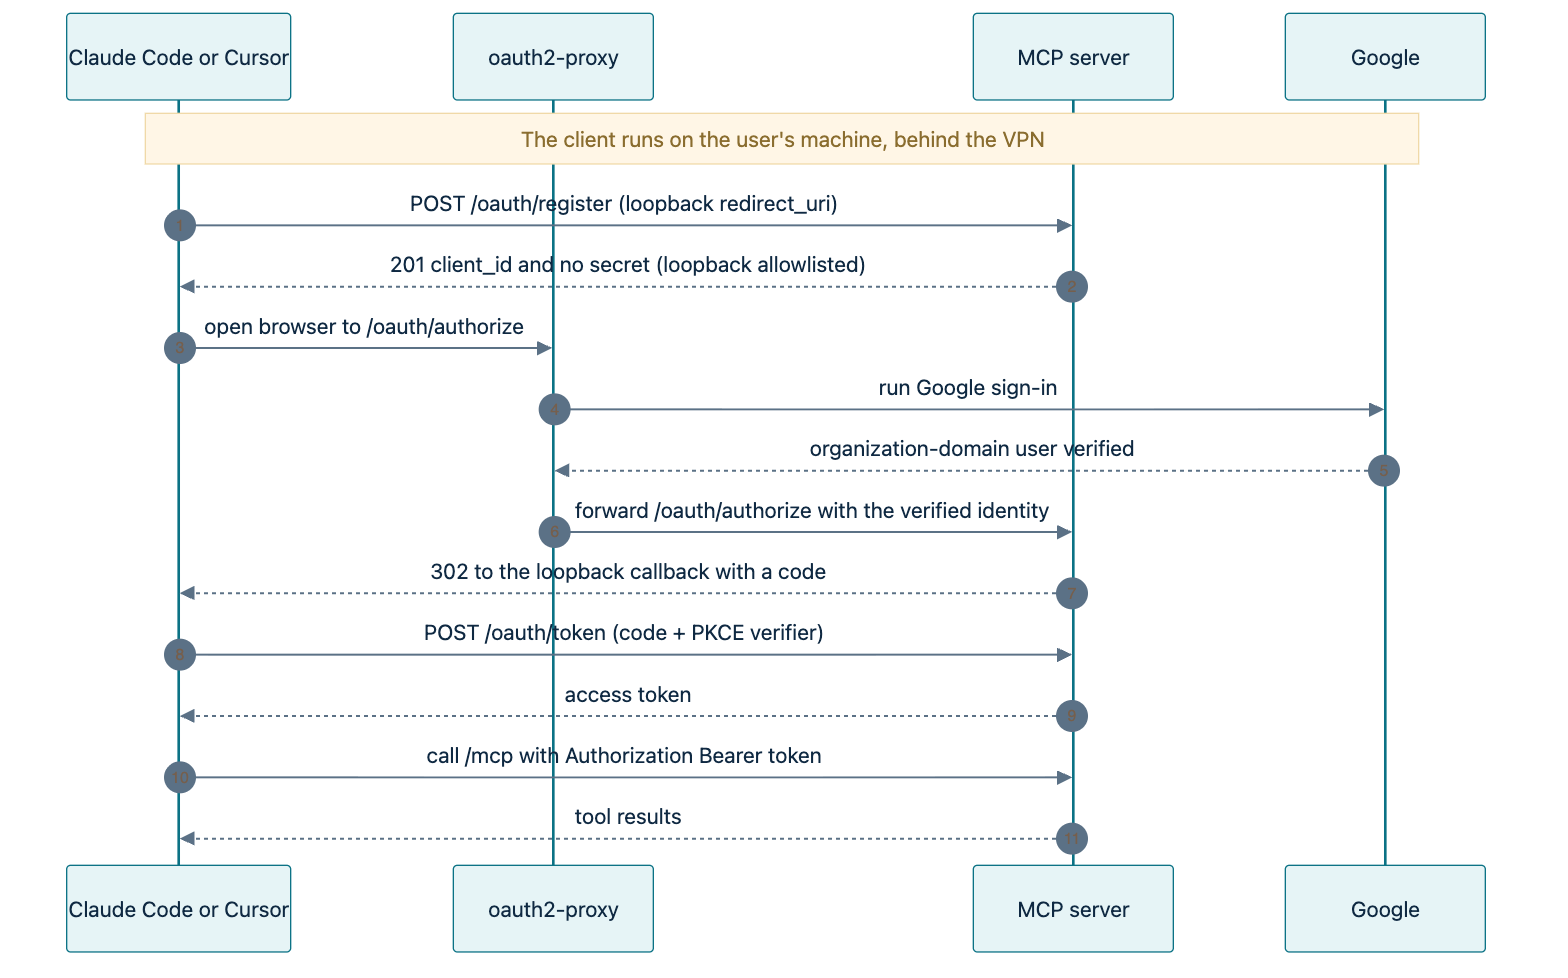
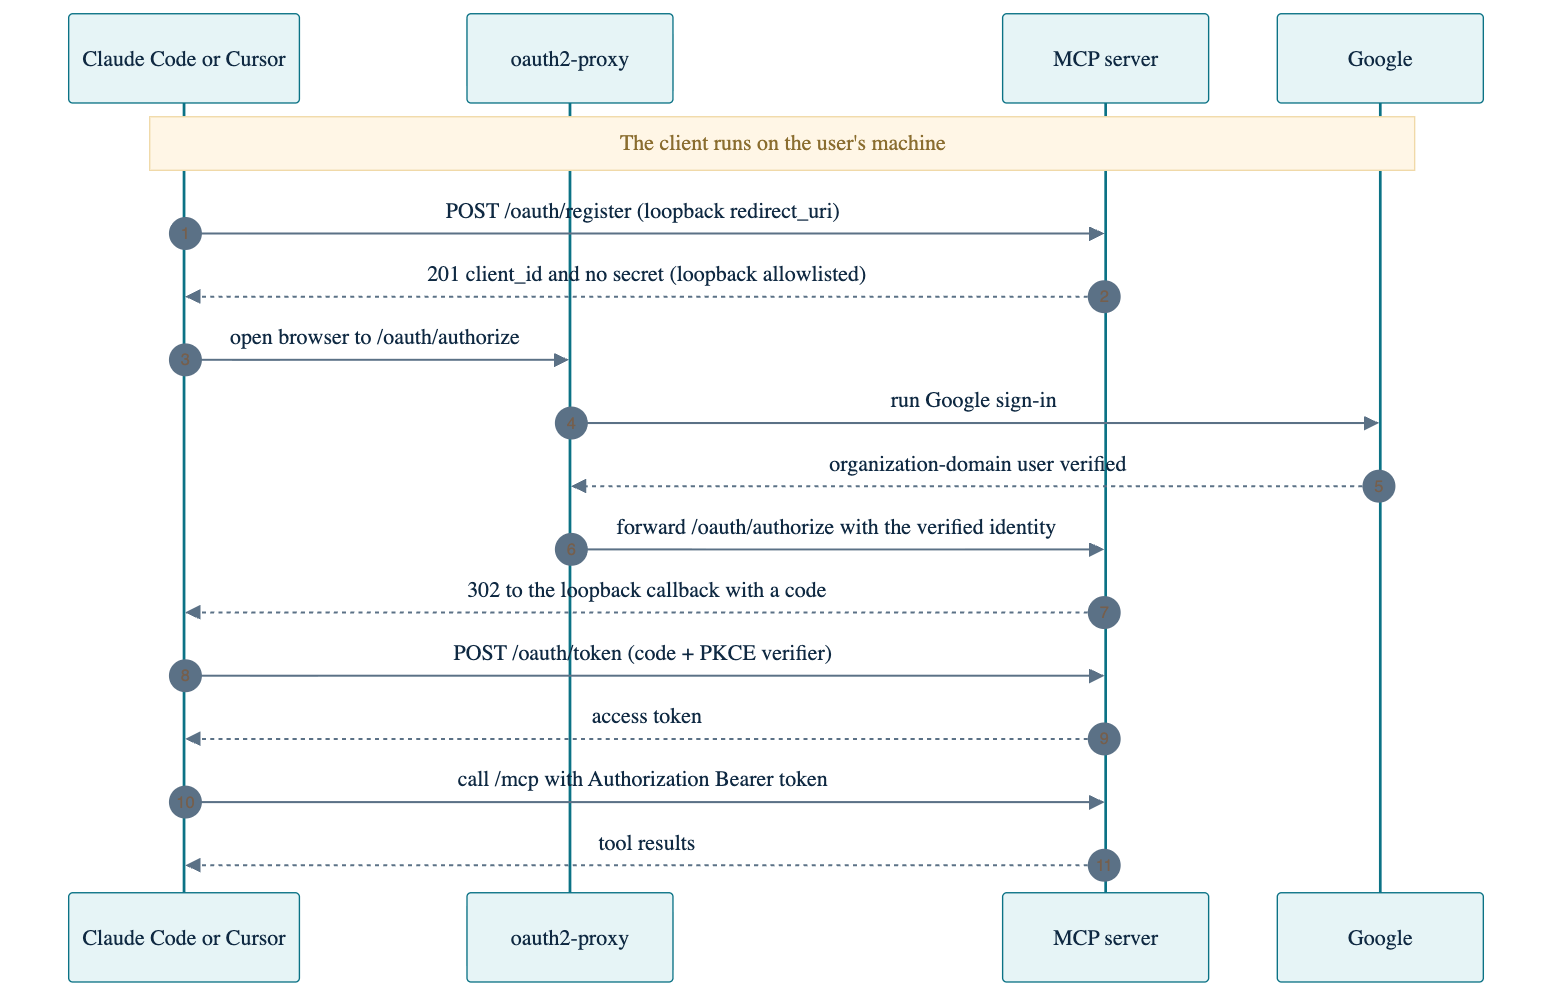
Drop the VPN/internal-host axis — one public host serves every client
The two-host split (internal for local clients, public for cloud) was an
artifact of one deployment, not an architectural need: the OAuth callback
is public for cloud clients regardless, and one host serves all. The real
axis is where the callback lands: loopback (local) vs. vendor URL (cloud).

diff --git a/index.html b/index.html
@@ -77,9 +77,9 @@
       against Google (restricted to your organization's domain), and the client
       holds a short-lived <strong>bearer token</strong> it presents on each
       <code>/mcp</code> call. Two things differ between assistants:
-      <strong>where the client runs</strong> (a machine on the VPN —
-      <em>private</em> — vs. the vendor's cloud — <em>public</em>), which decides
-      the host it reaches; and <strong>what kind of OAuth client it is</strong> —
+      <strong>where the client runs</strong> (the user's machine — <em>local</em> —
+      vs. the vendor's cloud), which decides where the OAuth callback
+      lands; and <strong>what kind of OAuth client it is</strong> —
       a public client proving itself with PKCE (Proof Key for Code Exchange, which
       lets a client with no secret prove the token request comes from the same
       client that started the flow), or a confidential client proving itself with
@@ -98,9 +98,9 @@
     <h2>The two axes</h2>
     <div class="axes">
       <div class="axis">
-        <h4>Private vs. public — where the client runs</h4>
-        <p><strong>Private/local</strong> clients (Claude Code, Cursor) run on a VPN-connected machine and reach the internal host <code>mcp.internal.example</code> with a loopback callback.</p>
-        <p><strong>Public/cloud</strong> clients (Claude Desktop, Gemini Enterprise) run in the vendor's cloud and reach the public host <code>mcp.example.com</code> — which is why the server has to be reachable from the internet.</p>
+        <h4>Local vs. cloud — where the client runs</h4>
+        <p><strong>Local</strong> clients (Claude Code, Cursor) run on the user's machine and receive the OAuth callback on <strong>loopback</strong> (<code>127.0.0.1</code>) — the authorization code never leaves the machine.</p>
+        <p><strong>Cloud</strong> clients (Claude Desktop, Gemini Enterprise) run in the vendor's cloud, so the callback is a registered vendor URL — which is why the server has to be reachable from the internet.</p>
       </div>
       <div class="axis">
         <h4>Public vs. confidential — the OAuth client type</h4>
@@ -112,22 +112,22 @@
     <h2>The configurations at a glance</h2>
     <table class="matrix">
       <thead>
-        <tr><th>Assistant</th><th>Client runs</th><th>Host it reaches</th><th>OAuth client</th><th>Proves itself with</th><th>Notes / requirements</th></tr>
+        <tr><th>Assistant</th><th>Client runs</th><th>OAuth callback</th><th>OAuth client</th><th>Proves itself with</th><th>Notes / requirements</th></tr>
       </thead>
       <tbody>
-        <tr><td class="c">Claude Code (CLI)</td><td>local machine · VPN</td><td>internal host</td><td>dynamic, public</td><td>PKCE</td><td>works once registered</td></tr>
-        <tr><td class="c">Cursor (IDE)</td><td>local machine · VPN</td><td>internal host</td><td>dynamic, public</td><td>PKCE</td><td>works via the <code>mcp-remote</code> shim *</td></tr>
-        <tr><td class="c">Claude Desktop</td><td>Anthropic cloud</td><td>public host</td><td>dynamic, public</td><td>PKCE</td><td>works once registered</td></tr>
-        <tr><td class="c">Gemini Enterprise</td><td>Google cloud</td><td>public host</td><td>pre-provisioned, confidential</td><td>client secret</td><td>requires a Gemini Enterprise license + admin connector registration</td></tr>
-        <tr><td class="c">Cursor Cloud Agents</td><td>Cursor cloud</td><td>public host</td><td>dynamic / static</td><td>PKCE / secret</td><td>requires a Cursor team admin to add the server</td></tr>
+        <tr><td class="c">Claude Code (CLI)</td><td>local machine</td><td>loopback</td><td>dynamic, public</td><td>PKCE</td><td>works once registered</td></tr>
+        <tr><td class="c">Cursor (IDE)</td><td>local machine</td><td>loopback</td><td>dynamic, public</td><td>PKCE</td><td>works via the <code>mcp-remote</code> shim *</td></tr>
+        <tr><td class="c">Claude Desktop</td><td>Anthropic cloud</td><td>vendor URL (<code>claude.ai</code>)</td><td>dynamic, public</td><td>PKCE</td><td>works once registered</td></tr>
+        <tr><td class="c">Gemini Enterprise</td><td>Google cloud</td><td>vendor URL (Google)</td><td>pre-provisioned, confidential</td><td>client secret</td><td>requires a Gemini Enterprise license + admin connector registration</td></tr>
+        <tr><td class="c">Cursor Cloud Agents</td><td>Cursor cloud</td><td>vendor URL</td><td>dynamic / static</td><td>PKCE / secret</td><td>requires a Cursor team admin to add the server</td></tr>
       </tbody>
     </table>
     <p style="font-size:13px; color:var(--muted)">* Cursor's local IDE connects through the <code>mcp-remote</code> shim — see its section.</p>
 
-    <h2>Claude Code &amp; Cursor — private (VPN)</h2>
+    <h2>Claude Code &amp; Cursor — local</h2>
     <p>
       This is the local baseline: the client runs on the user's machine, so it completes the full OAuth
-      flow from inside the VPN with a <strong>loopback callback</strong>
+      flow with a <strong>loopback callback</strong>
       (<code>127.0.0.1</code>). It self-registers (dynamic registration), the loopback
       redirect is allowlisted, and the authorization code never leaves the machine.
       It is a <strong>public client</strong>: no secret — PKCE ties the token request
@@ -141,7 +141,7 @@ sequenceDiagram
     participant PX as oauth2-proxy
     participant MM as MCP server
     participant G as Google
-    Note over CLI,G: The client runs on the user's machine, behind the VPN
+    Note over CLI,G: The client runs on the user's machine
     CLI->>MM: POST /oauth/register (loopback redirect_uri)
     MM-->>CLI: 201 client_id and no secret (loopback allowlisted)
     CLI->>PX: open browser to /oauth/authorize
@@ -154,7 +154,7 @@ sequenceDiagram
     CLI->>MM: call /mcp with Authorization Bearer token
     MM-->>CLI: tool results
       </pre></div>
-      <figcaption>Local PKCE flow — everything but the Google sign-in stays on the user's machine and the VPN.</figcaption>
+      <figcaption>Local PKCE flow — everything but the Google sign-in stays on the user's machine.</figcaption>
     </figure>
 
     <h3>The Cursor exception</h3>
@@ -162,15 +162,15 @@ sequenceDiagram
       Cursor follows the same local flow, but a <a href="https://forum.cursor.com/t/oauth-browser-redirect-not-triggered-for-http-based-mcp-servers/146988" target="_blank" rel="noopener">known Cursor bug</a> stops the IDE from
       opening the browser after it registers — so the sign-in step never starts. The
       workaround is the <code>mcp-remote</code> shim
-      (<code>npx -y mcp-remote@latest https://mcp.internal.example/mcp</code>), which
+      (<code>npx -y mcp-remote@latest https://mcp.example.com/mcp</code>), which
       runs the OAuth flow itself and hands Cursor a working connection. Nothing on
       the server changes.
     </p>
 
-    <h2>Claude Desktop — public (cloud)</h2>
+    <h2>Claude Desktop — cloud</h2>
     <p>
-      Claude Desktop's connector runs in <strong>Anthropic's cloud</strong>, so it
-      reaches the <strong>public</strong> host. It is still a <strong>public client</strong>:
+      Claude Desktop's connector runs in <strong>Anthropic's cloud</strong>. It is
+      still a <strong>public client</strong>:
       it discovers the server's endpoints and registers itself dynamically (PKCE, no
       secret), exactly like the local clients — the only difference is that the
       callback is a cloud URL (<code>claude.ai</code>) instead of loopback, so the
@@ -200,16 +200,16 @@ sequenceDiagram
     CD->>MM: call /mcp with Authorization Bearer token
     MM-->>CD: tool results
       </pre></div>
-      <figcaption>Cloud PKCE flow — like the local one, but the callback and token-bearing calls originate from Anthropic's cloud, so the server must be public.</figcaption>
+      <figcaption>Cloud PKCE flow — like the local one, but the callback and token-bearing calls originate from Anthropic's cloud, so the server must be reachable from the internet.</figcaption>
     </figure>
 
-    <h2>Gemini Enterprise — public (cloud), confidential <span class="pill wait">requires license + admin registration</span></h2>
+    <h2>Gemini Enterprise — cloud, confidential <span class="pill wait">requires license + admin registration</span></h2>
     <p>
       Gemini Enterprise is the one <strong>confidential client</strong>. Instead of
       registering itself at runtime, an admin mints a <code>client_id</code> +
       <strong>secret</strong> once (out of band) and enters them into the Gemini
-      Enterprise connector config. The connector runs in <strong>Google's cloud</strong>
-      and reaches the public host. The human still signs in (legs 1–6); then,
+      Enterprise connector config. The connector runs in <strong>Google's
+      cloud</strong>. The human still signs in (legs 1–6); then,
       server-to-server with no browser, Google's cloud exchanges the code for a token
       using its <strong>secret</strong> (leg 7) and calls <code>/mcp</code> (leg 9).
       This path requires a Gemini Enterprise license and admin registration of the
@@ -241,10 +241,10 @@ sequenceDiagram
       <figcaption>Confidential cloud flow — the connector proves itself with a pre-shared secret at token exchange (leg 7) rather than PKCE. Note the two "Googles": <em>Google cloud</em> is the connector (the OAuth client, redirecting through <code>vertexaisearch.cloud.google.com</code>); <em>Google</em> is the identity provider that signs the person in.</figcaption>
     </figure>
 
-    <h2>Cursor Cloud Agents — public (cloud) <span class="pill stop">requires team admin</span></h2>
+    <h2>Cursor Cloud Agents — cloud <span class="pill stop">requires team admin</span></h2>
     <p>
-      Cursor's Cloud Agents would reach the public host like Gemini Enterprise and
-      Claude Desktop (Streamable HTTP, with OAuth). But adding the server is gated by
+      Cursor's Cloud Agents would connect from Cursor's cloud like Gemini Enterprise
+      and Claude Desktop (Streamable HTTP, with OAuth). But adding the server is gated by
       Cursor's own permissions — only a <strong>Cursor team admin</strong> can add an
       MCP server to the team ("Only team admins can manage the default team
       marketplace"). Until an admin adds the server, no OAuth flow runs, so there is
@@ -270,14 +270,16 @@ sequenceDiagram
     <p>
       The protocol is not the interesting part — the standard is borrowed and
       identical for every client. What varies, and what this comparison maps, are
-      the two axes that decide everything else: where the client runs (private/VPN
-      vs. public/cloud), which fixes the host it reaches; and how it proves itself
-      (PKCE vs. a pre-shared secret), which fixes whether it can self-register or
-      must be provisioned by an admin. The deployment shape that makes this work is
-      worth naming: front the server with oauth2-proxy for the Google sign-in, place
-      a thin spec-conforming authorization server behind it, and split the work
-      across an internal host for VPN-local clients and a public host for cloud
-      clients. Within that shape, only a confidential client (Gemini Enterprise)
+      the two axes that decide everything else: where the client runs (local
+      vs. cloud), which fixes where the OAuth callback lands; and how it proves
+      itself (PKCE vs. a pre-shared secret), which fixes whether it can
+      self-register or must be provisioned by an admin. The deployment shape that
+      makes this work is worth naming: front the server with oauth2-proxy for the
+      Google sign-in, place a thin spec-conforming authorization server behind it,
+      and serve every client from a single internet-reachable host — the OAuth
+      callback must be public for cloud clients anyway, and one host keeps the
+      topology simple. Authentication, not network placement, is the boundary.
+      Within that shape, only a confidential client (Gemini Enterprise)
       needs a pre-shared secret, and the practical friction is rarely the protocol —
       it is vendor-side gates such as a client browser-open bug or a team-admin
       permission on adding the server.
